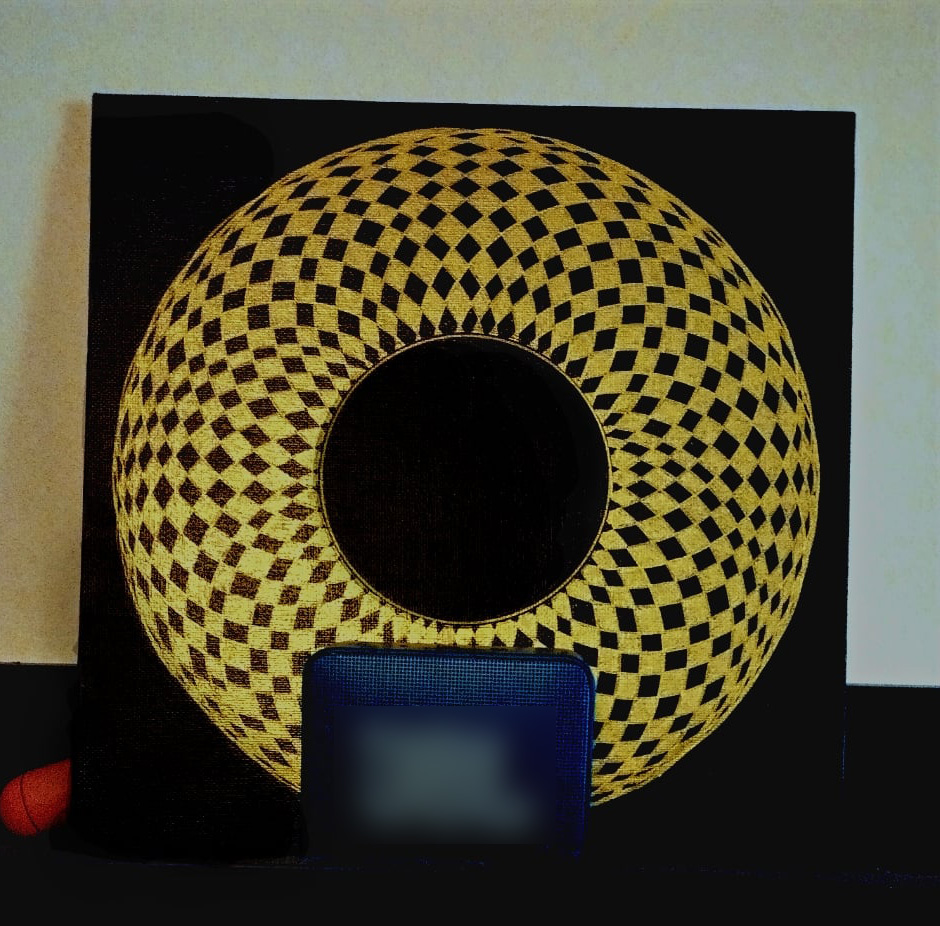
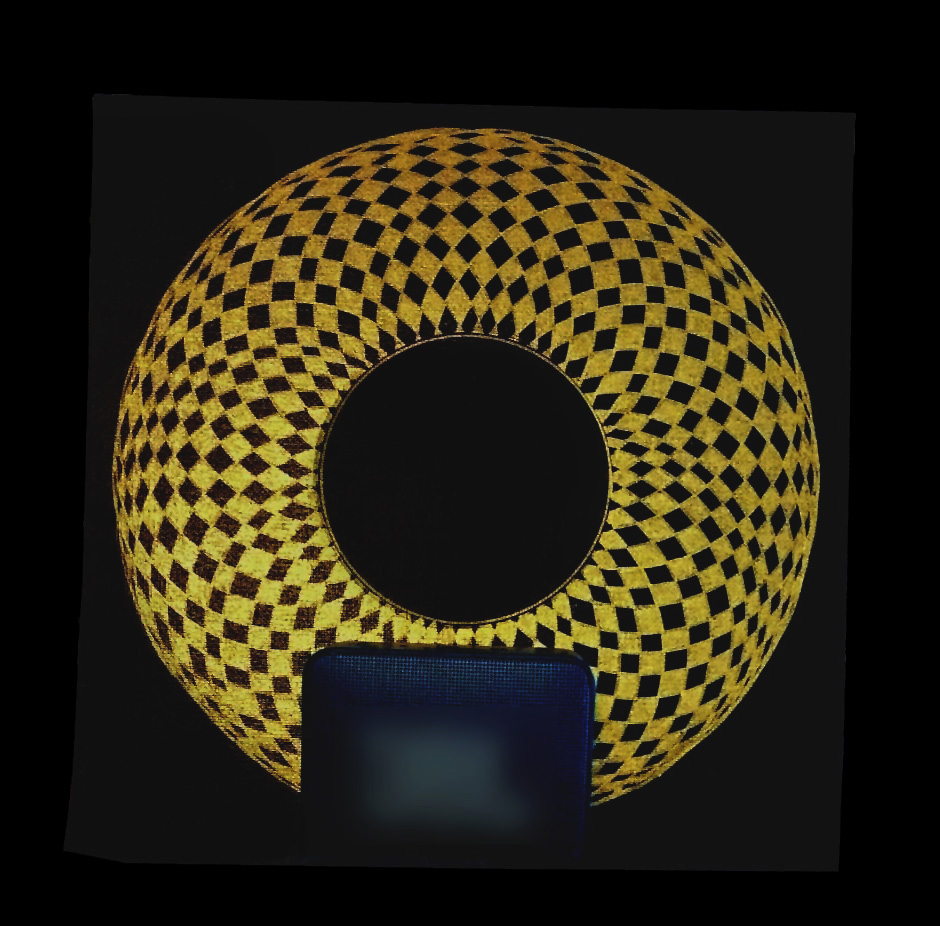
modify some carousel photos : set black background

Changed region(s): [[0.0, 0.0, 1.0, 0.8467], [0.0, 0.8164, 0.0926, 0.9071], [0.9255, 0.9374, 0.9564, 0.9676]]

diff --git a/src/service/PhotoCarouselService.ts b/src/service/PhotoCarouselService.ts
@@ -17,8 +17,8 @@ import img13bis from '../assets/image/carousel/image_carousel_14.jpg';
 
 import img14 from '../assets/image/carousel/stone_01.jpg';
 import img15 from '../assets/image/carousel/stone_02.jpg';
-import img16 from '../assets/image/carousel/stone_03.jpg';
-import img17 from '../assets/image/carousel/stone_04.jpg';
+import img16 from '../assets/image/carousel/stone_03.png';
+import img17 from '../assets/image/carousel/stone_04.png';
 import img18 from '../assets/image/carousel/stone_05.jpg';
 import img19 from '../assets/image/carousel/stone_06.jpg';
 import img20 from '../assets/image/carousel/stone_07.jpg';

diff --git a/src/type/apiTypes.ts b/src/type/apiTypes.ts
@@ -1,7 +1,7 @@
-export interface ApiResponse {
+export interface ApiResponse<T = any> {
   success: boolean;
   message?: string;
   errors?: Record<string, string[]>;
-  data?: any;
+  data?: T;
 }
 

diff --git a/src/type/indexType.ts b/src/type/indexType.ts
@@ -4,3 +4,4 @@ export * from './userTypes';
 export * from './apiTypes';
 export * from './carouselTypes';
 export * from './contactTypes';
+export * from './commonTypes';

diff --git a/src/type/commonTypes.ts b/src/type/commonTypes.ts
@@ -1,0 +1,2 @@
+export type Nullable<T> = T | null;
+export type Optional<T> = T | undefined;
